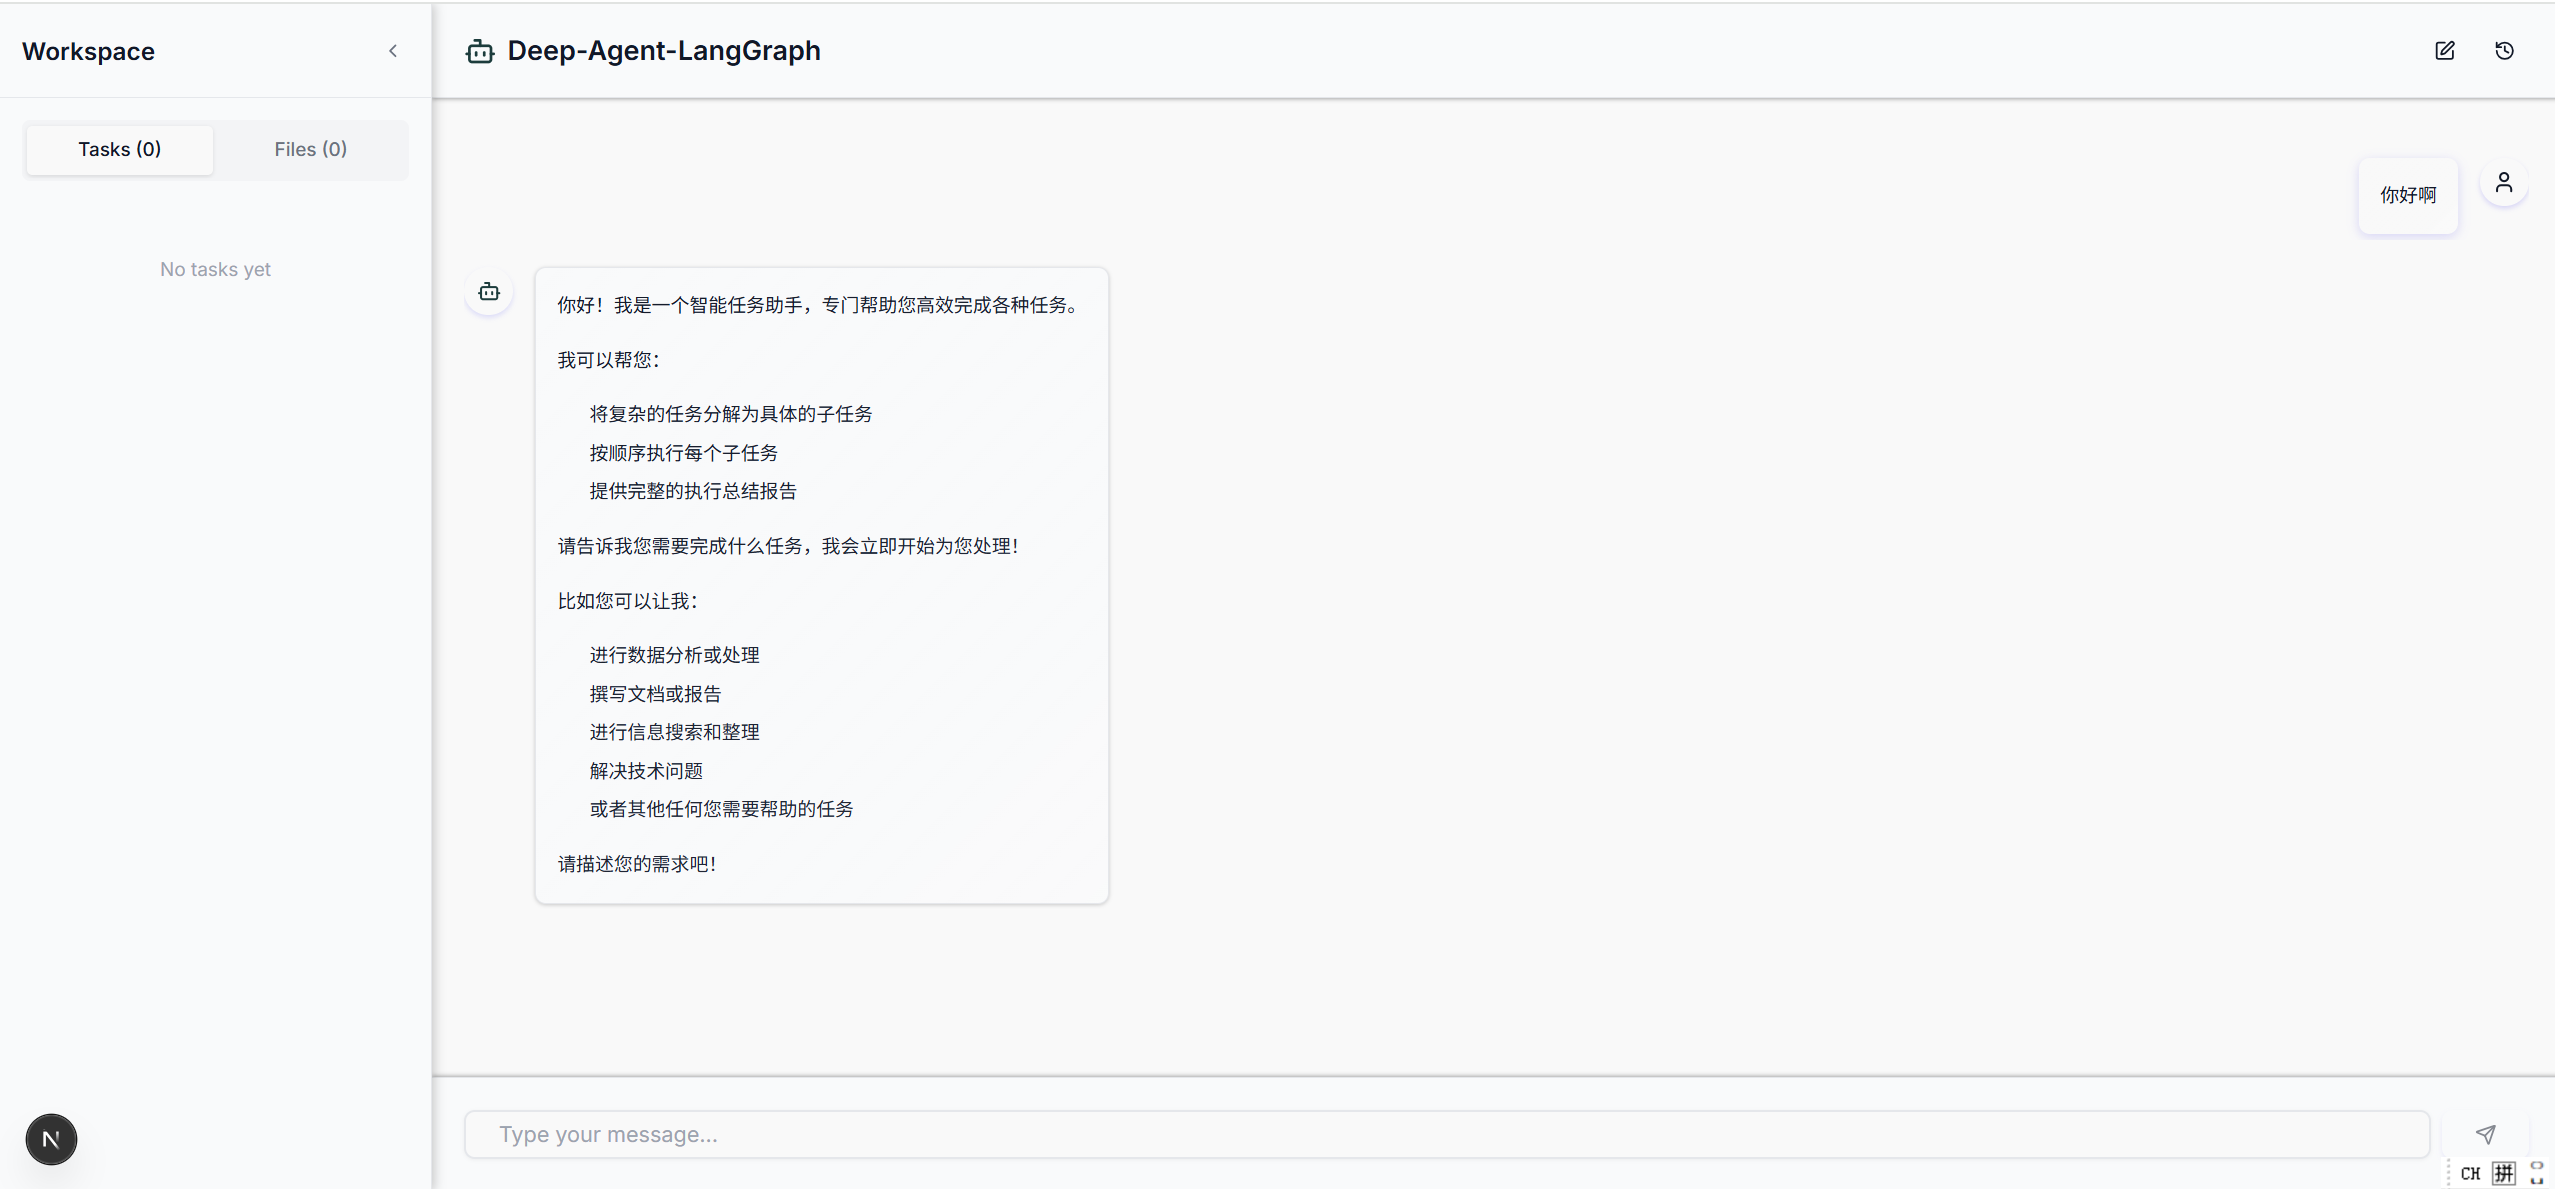
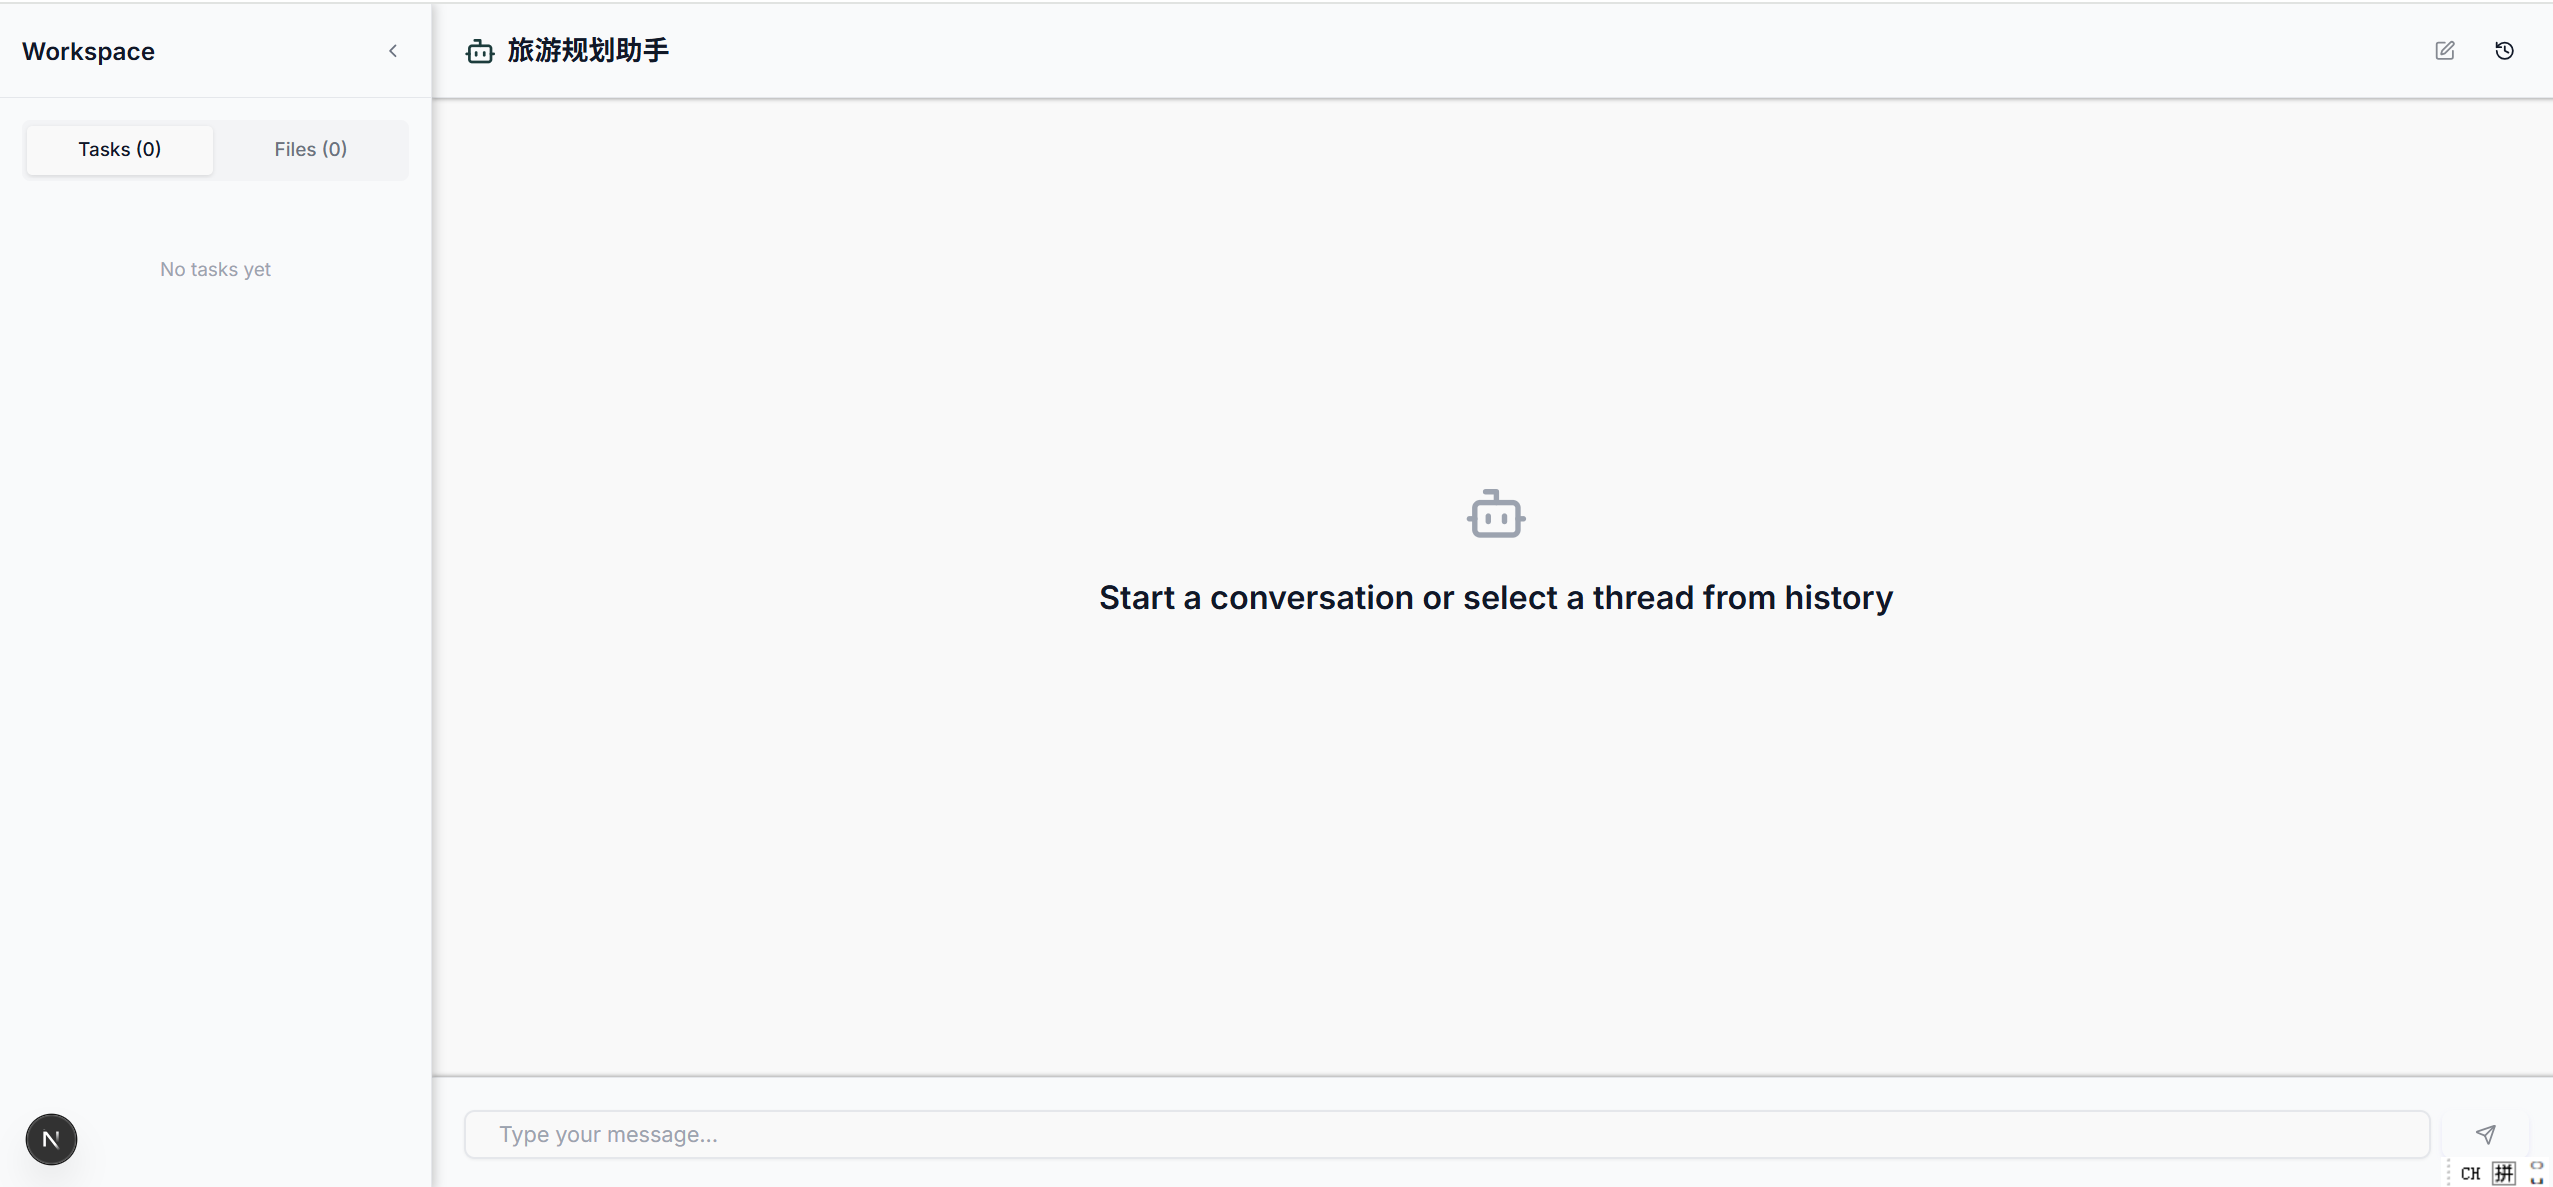
refactor: 更新 UI 样式和项目名称
- 修改项目名称为"旅游规划助手UI"
- 更新 README 中的图片链接格式
- 在 ChatInterface 组件中更改标题为"旅游规划助手"
- 更新静态图片文件

diff --git a/src/app/components/ChatInterface/ChatInterface.tsx b/src/app/components/ChatInterface/ChatInterface.tsx
@@ -182,7 +182,7 @@ export const ChatInterface = React.memo<ChatInterfaceProps>(
         <div className={styles.header}>
           <div className={styles.headerLeft}>
             <Bot className={styles.logo} />
-            <h1 className={styles.title}>Deep-Agent-LangGraph</h1>
+            <h1 className={styles.title}>旅游规划助手</h1>
           </div>
           <div className={styles.headerRight}>
             <Button
@@ -192,7 +192,7 @@ export const ChatInterface = React.memo<ChatInterfaceProps>(
               disabled={!hasMessages}
             >
               <SquarePen size={20} />
-            </Button>
+            </Button> 
             <Button variant="ghost" size="icon" onClick={toggleThreadHistory}>
               <History size={20} />
             </Button>

diff --git a/README.md b/README.md
@@ -1,8 +1,8 @@
-# Deep Agents UI （魔改版）
+# 旅游规划助手UI （魔改版）
 
 该项目fork自官方的deepagents-ui项目，魔改了一些功能。
 
-![alt text](/static/image.png)
+![alt text](static/image.png)
 B站视频链接(1)：https://www.bilibili.com/video/BV1dkaAzAE3P<br>
 B站视频链接(2)：https://www.bilibili.com/video/BV1TYa3zGEyv
 
